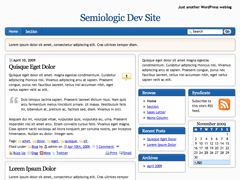
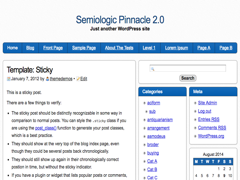
Add a missing language text domain in comments file Updated readme file Updated screenshot files Finished new clean skin couple menu tweaks needed when using new skin Tweaked calendar layout

diff --git a/style.css b/style.css
@@ -893,6 +893,10 @@ Site Header
 	text-decoration: none;
 }
 
+#header_img img {
+	display: block;
+
+}
 /*
 Site Navigation
 ---------------------------------------------------------------------------------------------------- */
@@ -939,7 +943,6 @@ Site Navigation
 	display: inline-block;
 	white-space: nowrap;
 	padding: 0 0.625em;
-	width: 100%;
 }
 
 #header_nav li.justified a {
@@ -1019,6 +1022,10 @@ Site Navigation
 #footer_nav li.nav_sep + li.nav_sep:before {
     content: "|";
 	font-weight: normal;
+}
+
+#navbar li.nav_sep.justified:after {
+	content: "" !important;
 }
 
 .sep_nav #header_nav li.nav_sep,
@@ -1357,14 +1364,14 @@ Widgets
 .widget_calendar table {
 	border-collapse: collapse;
 	margin: 0.625em auto 0.3125em;
-	width: 66.6667%;
-	font-size: 0.875em;
-	line-height: 1.231;
+	width: 75%;
+	font-size: 0.9375em;;
 }
 
 #sidebar .widget_calendar table,
 #sidebar2 .widget_calendar table {
 	width: 100%;
+	font-size: .875em;
 }
 
 .widget_calendar caption {

diff --git a/skins/clean/skin.css b/skins/clean/skin.css
@@ -21,3 +21,57 @@ html {
 	background-position: top center;
 	background-repeat: repeat;
 }
+
+body {
+	background-color: #fefefe;
+	color: #333;
+}
+
+a {
+	color: #e5554e;
+	text-decoration: none;
+}
+
+a:hover {
+	color: #333;
+}
+
+aside ul,
+aside ul > li,
+.entry ul,
+.entry ul > li {
+	list-style-type: disc;
+	list-style-image: none;
+}
+
+
+#navbar {
+	background-color: #333;
+	margin-bottom: 1em;
+}
+
+#header-menu-icon,
+#header_nav a,
+#header_nav li.nav_sep {
+	color: #FFF;
+}
+
+#header-menu-icon:hover,
+#header_nav a:hover {
+	color: #e5554e;
+}
+
+#header_nav .sub-menu li {
+	background-color: #fff;
+	color: #333;
+	border: 1px solid #eee;
+	border-top: none;
+}
+
+#header_nav .sub-menu li a {
+	color: #333;
+}
+
+#header_nav .sub-menu li a:hover {
+	color: #e5554e;
+}

diff --git a/css/responsive.css b/css/responsive.css
@@ -120,6 +120,7 @@ Media Queries
 
 	#header_nav a {
 		line-height: 2.5;
+		width: 100%;
 	}
 
 	#header_nav ul,

diff --git a/comments.php b/comments.php
@@ -121,7 +121,7 @@ function semiologic_display_comments_callback( $comment, array $args, $depth  ) 
 				<div class="comment-metadata">
 					<a href="<?php echo esc_url( get_comment_link( $comment->comment_ID, $args ) ); ?>">
 						<time datetime="<?php comment_time( 'c' ); ?>">
-							<?php printf( _x( '%1$s at %2$s', '1: date, 2: time' ), get_comment_date(), get_comment_time() ); ?>
+							<?php printf( _x( '%1$s at %2$s', '1: date, 2: time', 'sem-pinnacle' ), get_comment_date(), get_comment_time() ); ?>
 						</time>
 					</a>
 
